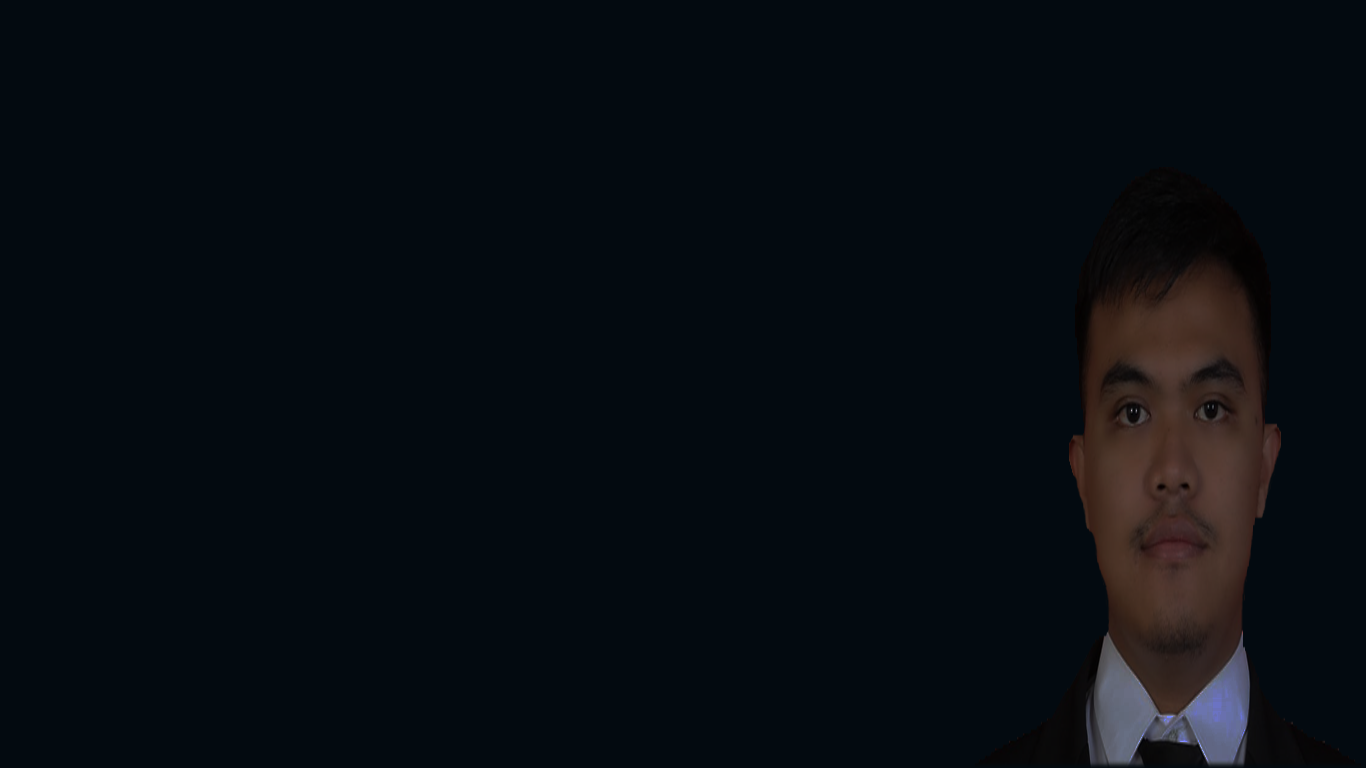
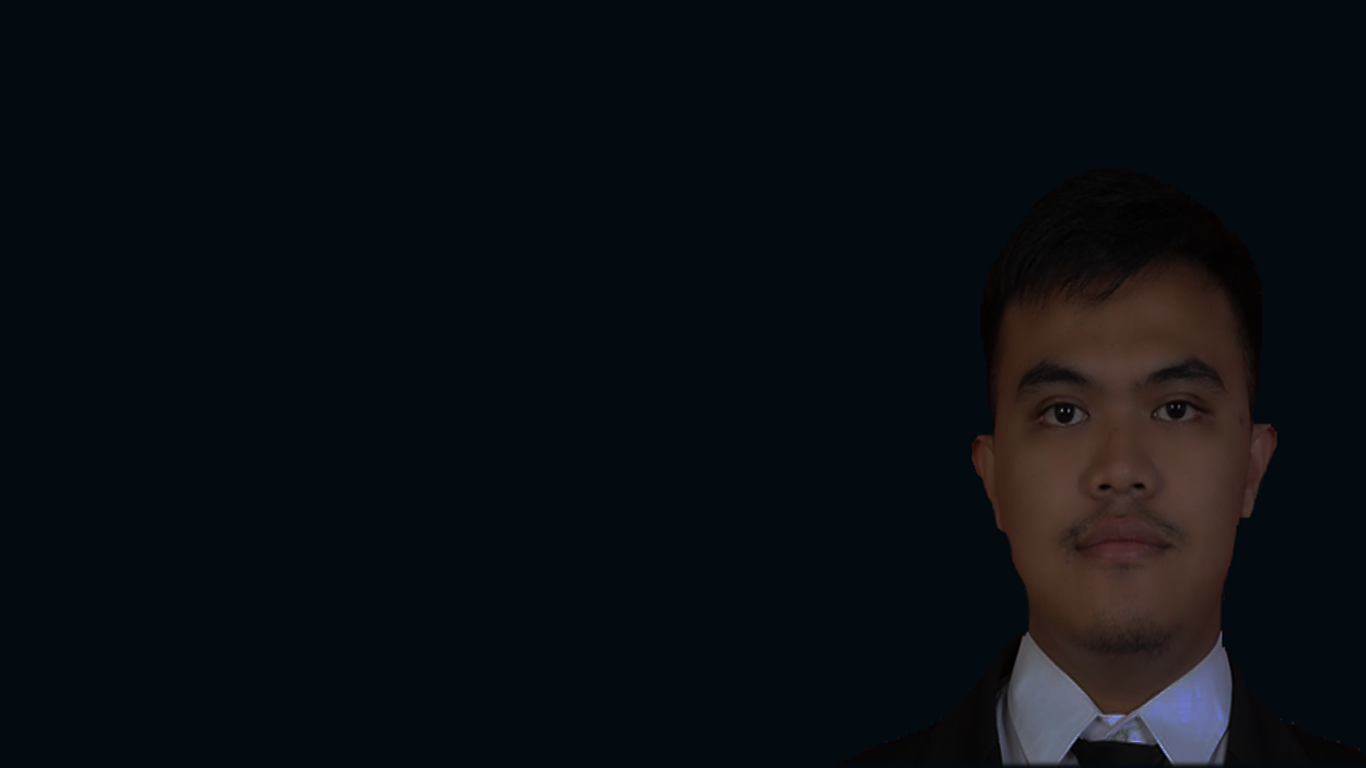
fead:debugging writing and change witdh image jumbotron

Changed region(s): [[0.7072, 0.3438, 0.9531, 1.0]]

diff --git a/index.html b/index.html
@@ -36,7 +36,7 @@
         <div class="home-content">
             <h1>Hi, I'm Josua Siagian <span class="animated" style="--i:1"></span></h1>
             <div class="text-animated">
-                <h3>Frondend Developer <span class="animated" style="--i:2"></span></h3>
+                <h3>Frontend Developer <span class="animated" style="--i:2"></span></h3>
             </div>
             <p>I am a fresh graduate, I am 22 years old, my hobby is in the web design section, I have expertise in computers, my last education is diploma 3 in informatics management. <span class="animated" style="--i:2"></span></p>
             <div class="button-box">
